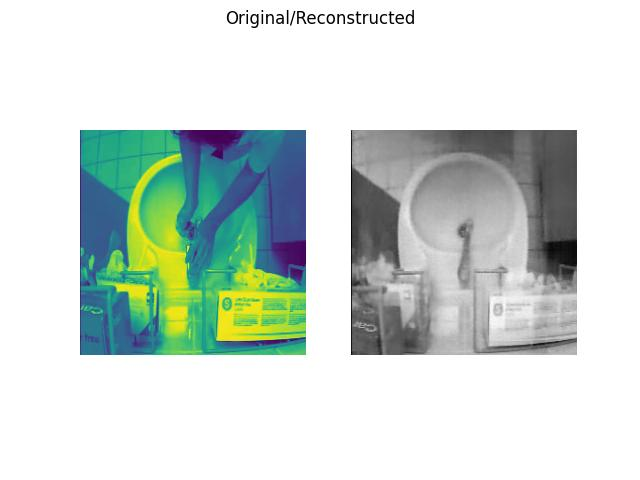
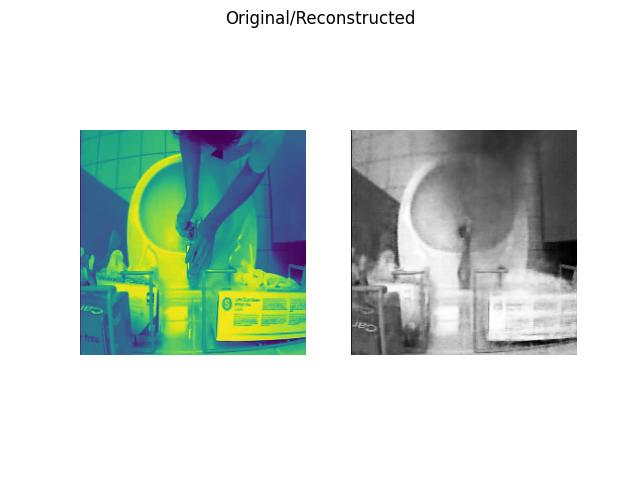
update CAE

diff --git a/E2Evideo/conv_autoencoder.py b/E2Evideo/conv_autoencoder.py
@@ -26,24 +26,63 @@ class Encoder(nn.Module):
         super().__init__()
 
         self.net = nn.Sequential(
+            # Conv-1
             nn.Conv2d(in_channels, out_channels, 3, padding=1), # (224, 244, 64)
+            nn.BatchNorm2d(out_channels),
             act_fn,
-            nn.Conv2d(out_channels, out_channels, 3, padding=1, stride = 2), # (112, 112, 64)
+            nn.Conv2d(out_channels, out_channels, 3, padding=1), 
+            nn.BatchNorm2d(out_channels), 
+            act_fn, 
+            nn.MaxPool2d(kernel_size = 2, stride = 2), # (112, 112, 64)
+
+            # Conv-2            
             nn.Conv2d(out_channels, 2 * out_channels, 3, padding=1), # (112, 112, 128)
+            nn.BatchNorm2d(2 * out_channels),
             act_fn,
-            nn.Conv2d(2 * out_channels, 2 * out_channels, 3, padding = 1, stride = 2), # (56, 56, 128)
+            nn.Conv2d(2* out_channels, 2 * out_channels, 3, padding=1),
+            nn.BatchNorm2d(2 * out_channels),
+            act_fn,
+            nn.MaxPool2d(kernel_size = 2, stride = 2), # (56, 56, 128)
+
+            #Conv-3
             nn.Conv2d(2 * out_channels, 4*out_channels, 3, padding=1), # (56, 56, 256)
+            nn.BatchNorm2d(4*out_channels),
             act_fn,
-            nn.Conv2d(4* out_channels, 4* out_channels, 3, padding = 1, stride = 2), # (28, 28 , 256)
+            nn.Conv2d(4 * out_channels, 4*out_channels, 3, padding=1),
+            nn.BatchNorm2d(4*out_channels),
+            act_fn,
+            nn.Conv2d(4 * out_channels, 4*out_channels, 3, padding=1),
+            nn.BatchNorm2d(4*out_channels),
+            act_fn,
+            nn.MaxPool2d(kernel_size = 2, stride = 2), # (28, 28 , 256)
+
+            # Conv-4
             nn.Conv2d(4*out_channels, 8*out_channels, 3, padding=1), # (28, 28 , 512)
+            nn.BatchNorm2d(8*out_channels),
             act_fn,
-            nn.Conv2d(8*out_channels, 8*out_channels, 3, padding = 1, stride = 2), # (14, 14 , 512)
+            nn.Conv2d(8*out_channels, 8*out_channels, 3, padding=1),
+            nn.BatchNorm2d(8*out_channels),
+            act_fn,
+            nn.Conv2d(8*out_channels, 8*out_channels, 3, padding=1),
+            nn.BatchNorm2d(8*out_channels),
+            act_fn,
+            nn.MaxPool2d(kernel_size = 2, stride = 2), # (14, 14 , 512)
+            
+            #Conv-5
             nn.Conv2d(8*out_channels, 8*out_channels, 3, padding=1), # (14, 14 , 512)
+            nn.BatchNorm2d(8*out_channels),
             act_fn,
-            nn.Conv2d(8*out_channels, 8*out_channels, 3, padding = 1, stride = 2), # (7, 7 , 512)
+            nn.Conv2d(8*out_channels, 8*out_channels, 3, padding=1),
+            nn.BatchNorm2d(8*out_channels),
+            act_fn,
+            nn.Conv2d(8*out_channels, 8*out_channels, 3, padding=1),
+            nn.BatchNorm2d(8*out_channels),
+            act_fn,
+            nn.MaxPool2d(kernel_size = 2, stride = 2), # (7, 7 , 512)
+
             nn.Flatten(),
             nn.Linear(8*out_channels*7*7, latent_dim), #(1000)
-            nn.Sigmoid())
+            act_fn)
     def forward(self, in_):
         """
         Forward function in the encoder.
